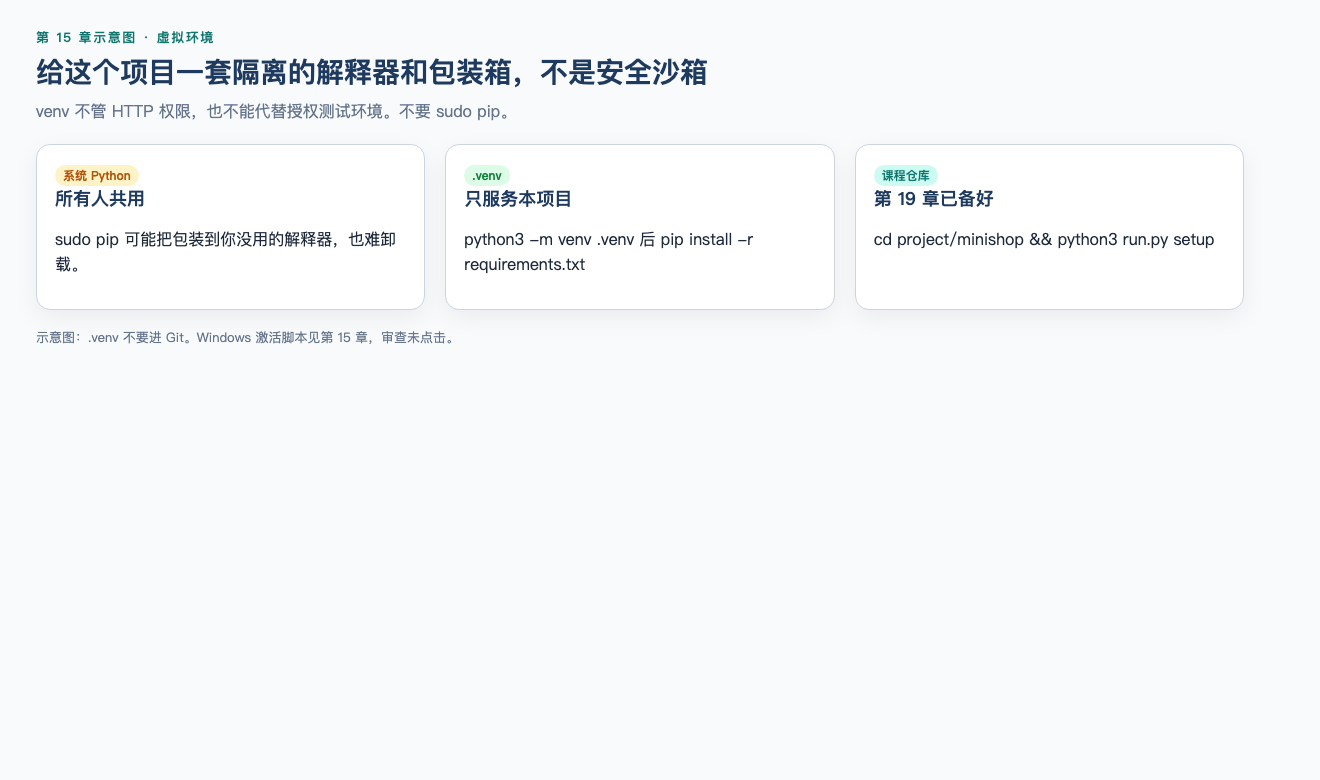
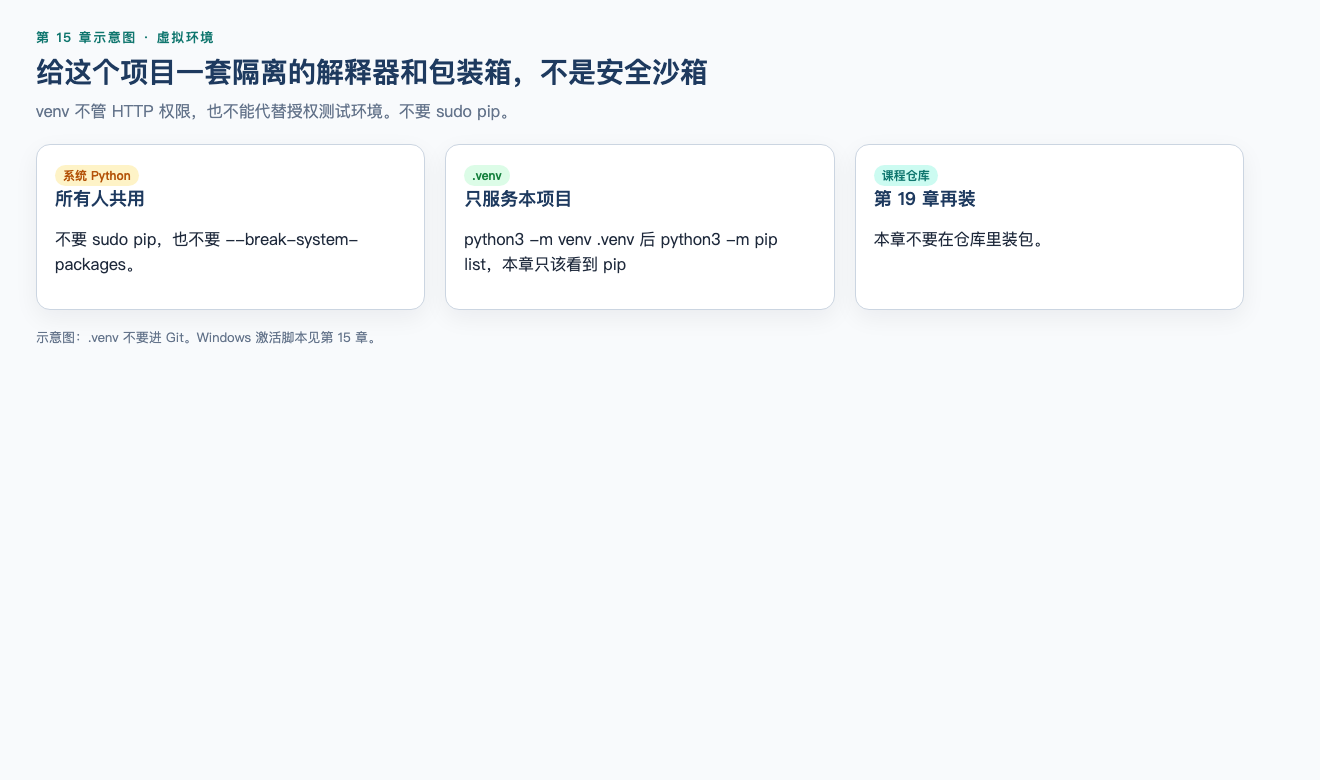
fix(ch15): venv diagram only lists pip, no course install yet
Install MiniShop requirements in chapter 19, not in the syntax chapter.

diff --git a/chapters/assets/diagrams/ch15-venv.html b/chapters/assets/diagrams/ch15-venv.html
@@ -4,6 +4,6 @@
 <p class="kicker">第 15 章示意图 · 虚拟环境</p>
 <h1>给这个项目一套隔离的解释器和包装箱，不是安全沙箱</h1>
 <p class="lead">venv 不管 HTTP 权限，也不能代替授权测试环境。不要 sudo pip。</p>
-<div class="row"><div class="col card"><span class="tag tag-warn">系统 Python</span><h2>所有人共用</h2><p style="font-size:16px;line-height:1.55">sudo pip 可能把包装到你没用的解释器，也难卸载。</p></div><div class="col card"><span class="tag tag-ok">.venv</span><h2>只服务本项目</h2><p style="font-size:16px;line-height:1.55">python3 -m venv .venv 后 pip install -r requirements.txt</p></div><div class="col card"><span class="tag tag-info">课程仓库</span><h2>第 19 章已备好</h2><p style="font-size:16px;line-height:1.55">cd project/minishop && python3 run.py setup</p></div></div>
-<p class="caption">示意图：.venv 不要进 Git。Windows 激活脚本见第 15 章，审查未点击。</p>
+<div class="row"><div class="col card"><span class="tag tag-warn">系统 Python</span><h2>所有人共用</h2><p style="font-size:16px;line-height:1.55">不要 sudo pip，也不要 --break-system-packages。</p></div><div class="col card"><span class="tag tag-ok">.venv</span><h2>只服务本项目</h2><p style="font-size:16px;line-height:1.55">python3 -m venv .venv 后 python3 -m pip list，本章只该看到 pip</p></div><div class="col card"><span class="tag tag-info">课程仓库</span><h2>第 19 章再装</h2><p style="font-size:16px;line-height:1.55">本章不要在仓库里装包。</p></div></div>
+<p class="caption">示意图：.venv 不要进 Git。Windows 激活脚本见第 15 章。</p>
 </div></body></html>
